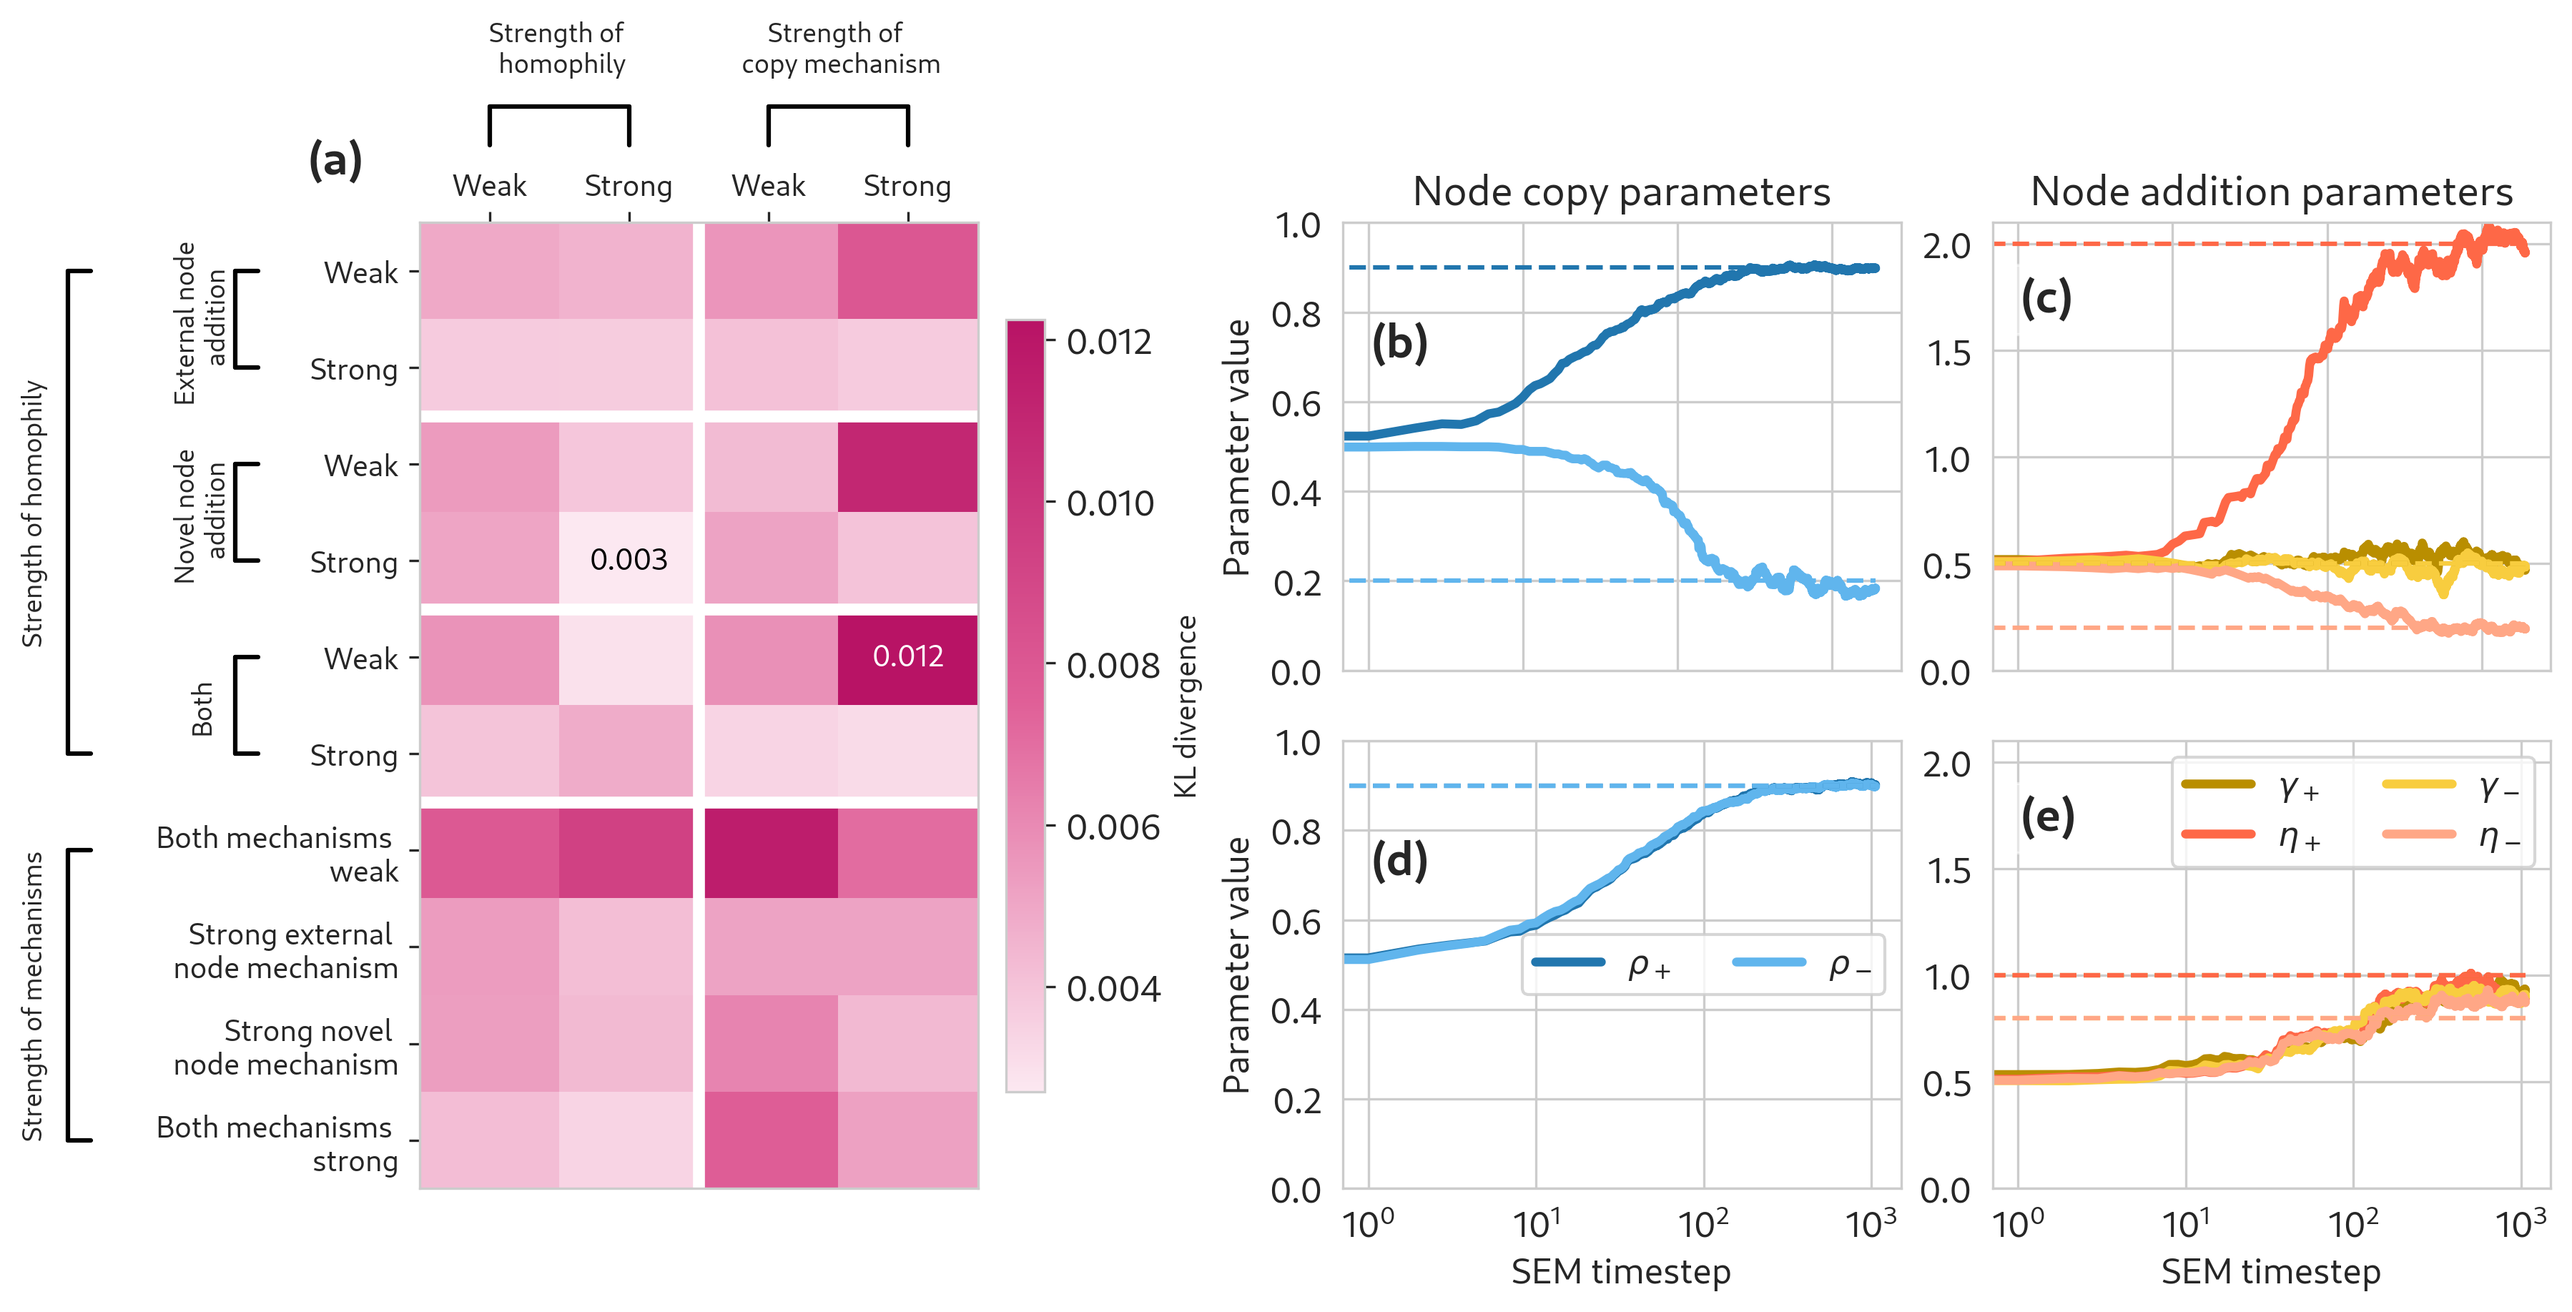
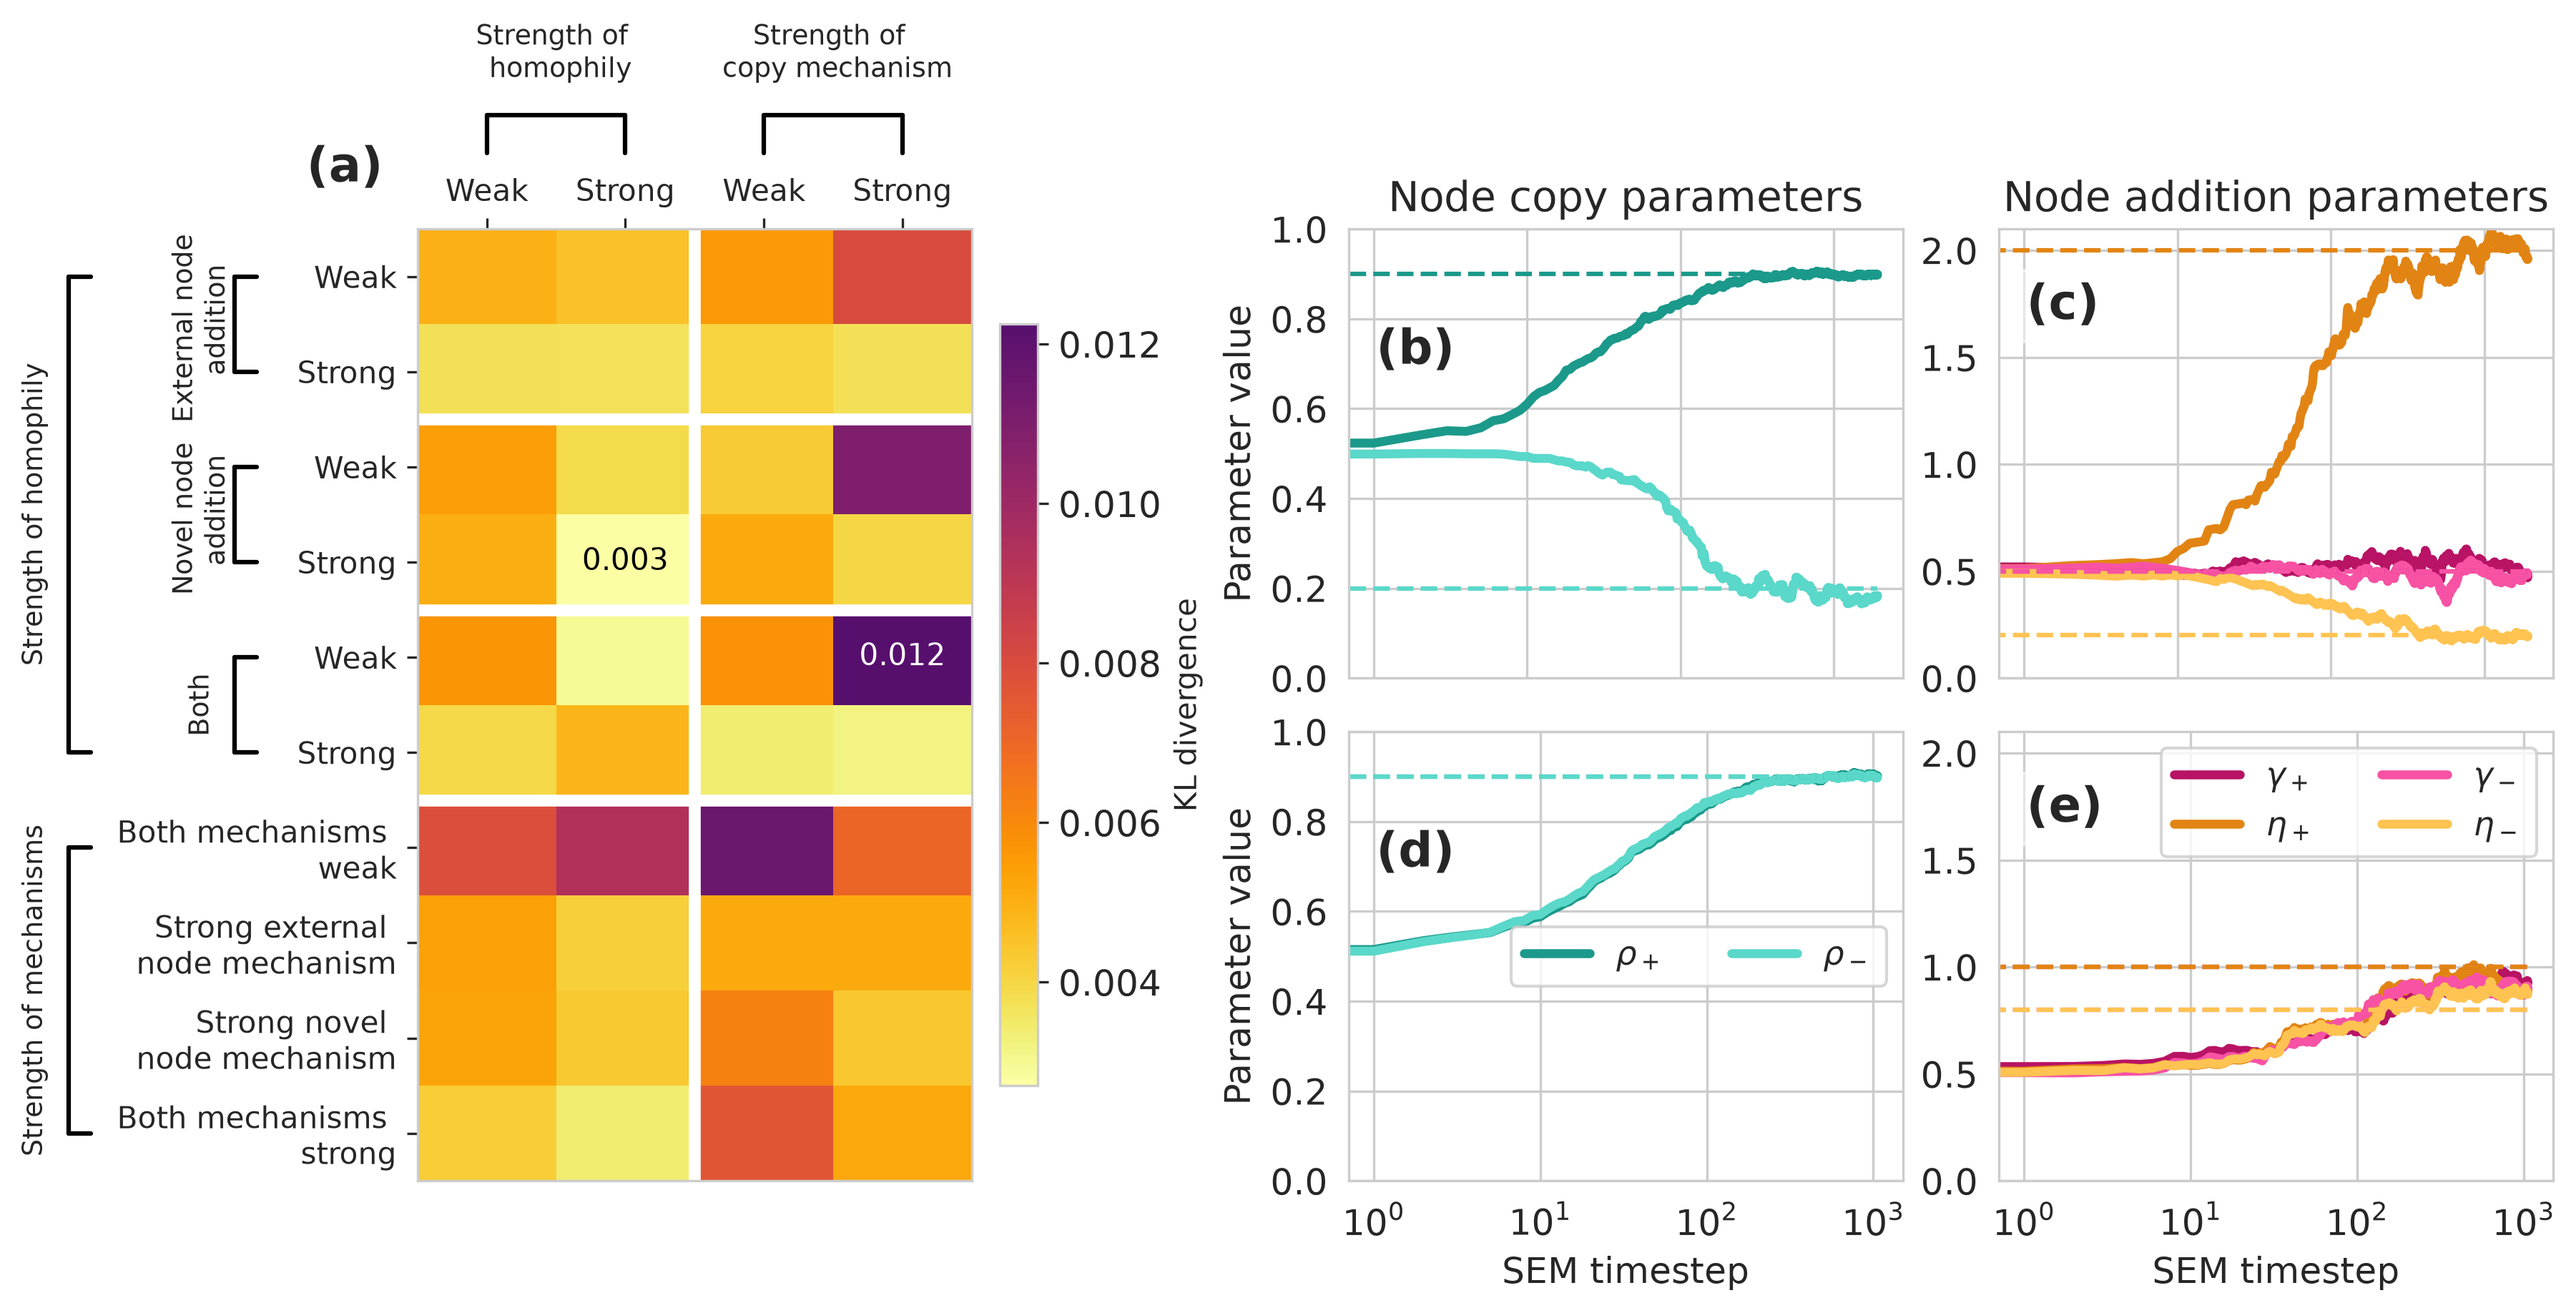
fig3 edits

diff --git a/scripts/figure_settings.py b/scripts/figure_settings.py
@@ -1,5 +1,5 @@
 import pylab
-palette = ["#2176AE",  "#B98E00", "#FE6847", "#0CCA4A"]
+palette = ["#1B998B",  "#B81365", "#E28413", "#A7ACD9"]
 linestyles = ["-", "--", "-.", ":"]
 
 
